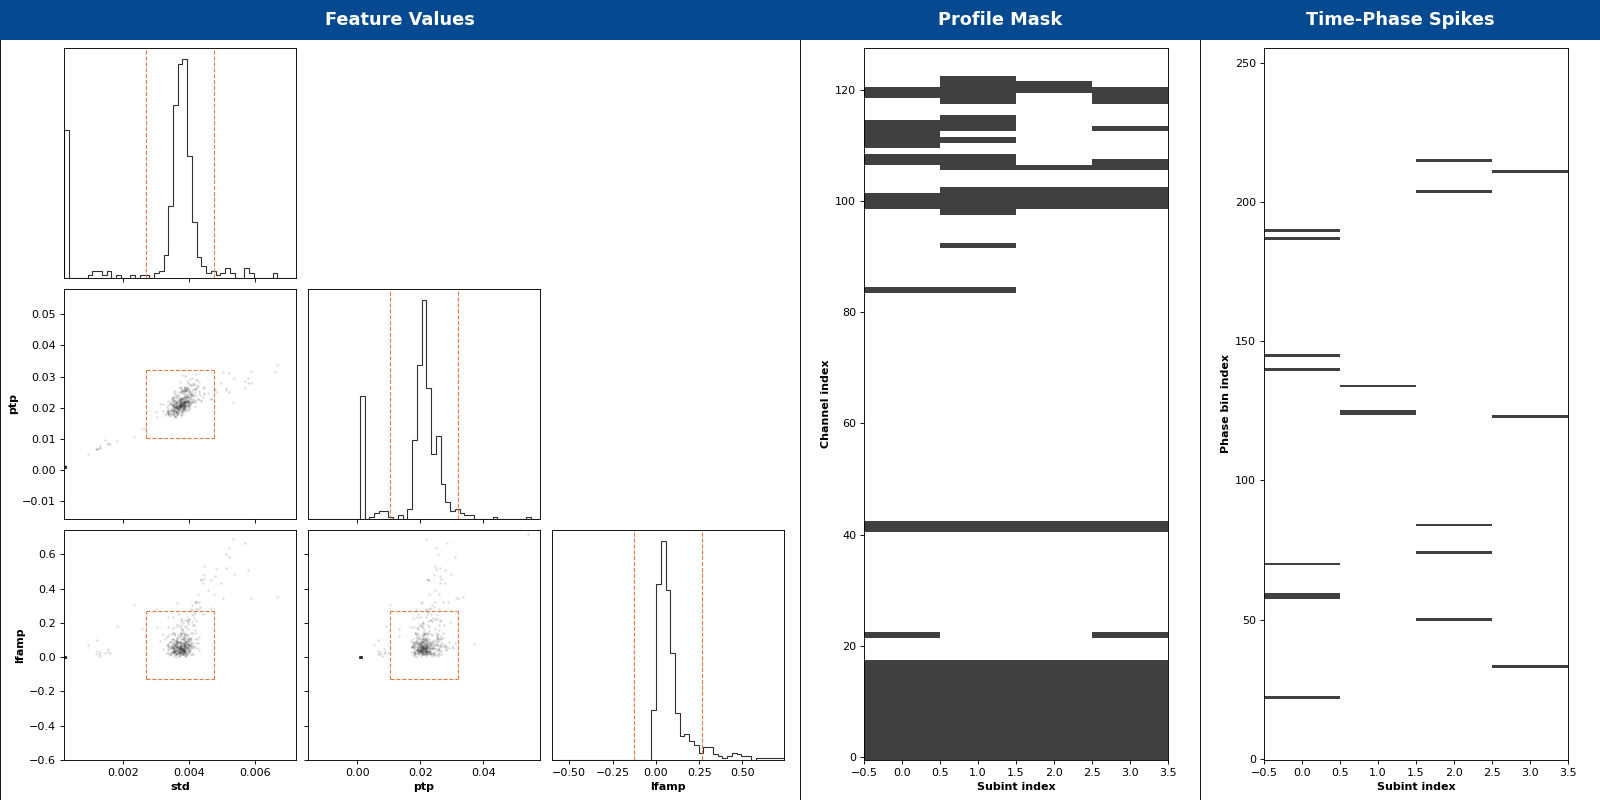
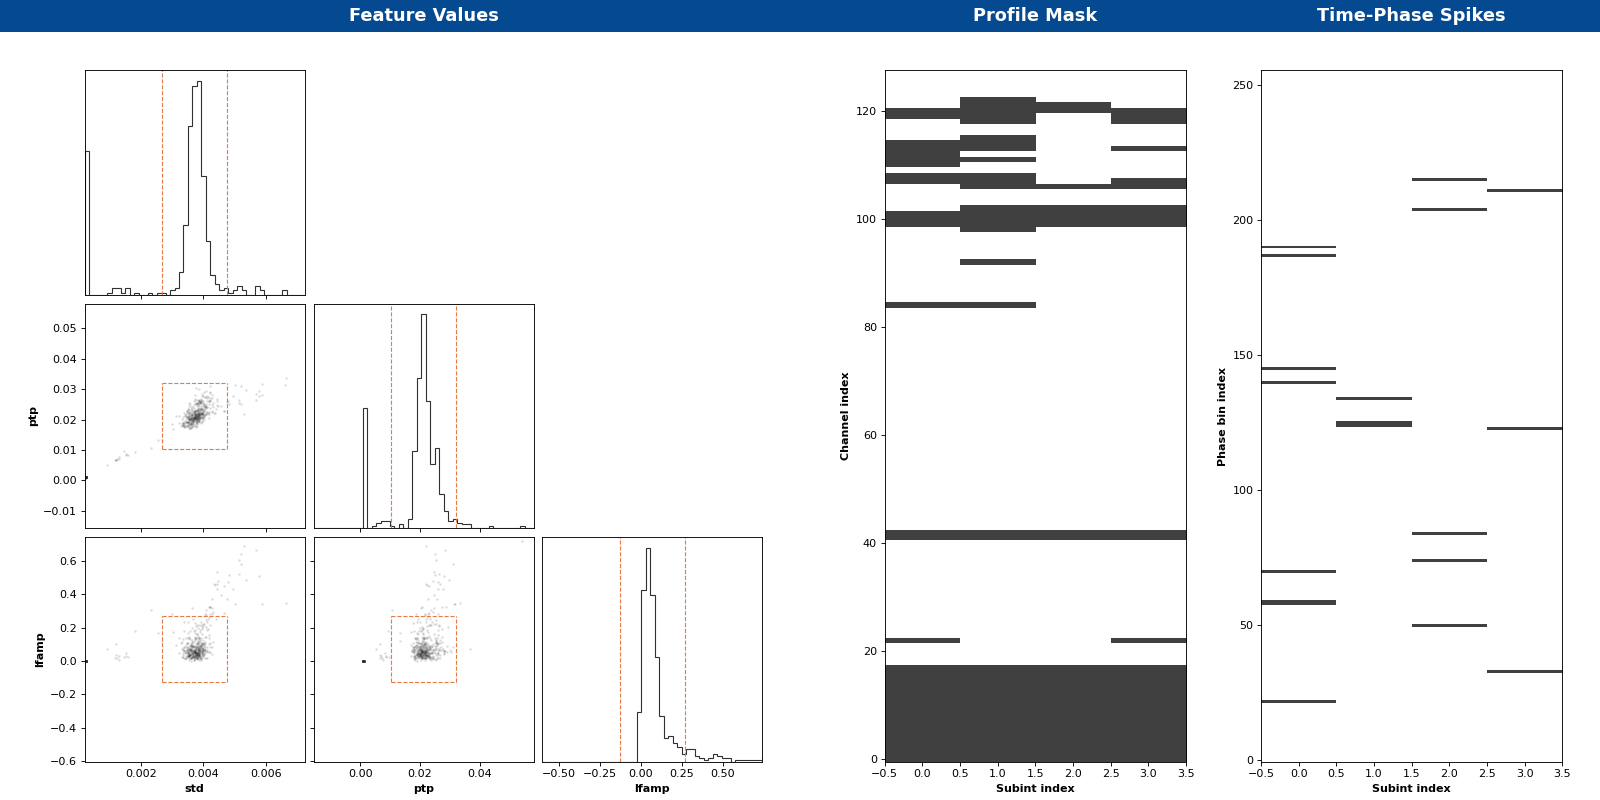
Improved report plots

diff --git a/clfd/report_plotting.py b/clfd/report_plotting.py
@@ -1,79 +1,146 @@
 import itertools
+from collections.abc import Sequence
+from dataclasses import dataclass
+from typing import Iterable
 
 import matplotlib.pyplot as plt
 import numpy as np
-from matplotlib.gridspec import GridSpec
+from matplotlib.gridspec import GridSpec, SubplotSpec
 from matplotlib.patches import Rectangle
+from matplotlib.pyplot import Axes, Figure
 from numpy.typing import NDArray
 
 from clfd import Report
 from clfd.profile_masking import Stats
 
-BANNER_BACKGROUND_COLOR = "#054a91"
-BANNER_TEXT_COLOR = "w"
-REJECTION_BOUNDARY_COLOR = "#e57a44"
 
+@dataclass
+class PlotRegion:
+    left: float
+    right: float
+    bottom: float
+    top: float
 
-def plot_report(report: Report) -> plt.Figure:
-    """
-    Plot a report, return a figure.
-    """
-    fig = plt.figure(figsize=(20, 10), dpi=80)
+    @property
+    def width(self) -> float:
+        return self.right - self.left
 
-    plot_frame("Feature Values", left=0.0, right=0.5)
-    corner_gridspec_kwargs = {
-        "left": 0.04,
-        "right": 0.49,
-        "top": 0.94,
-        "bottom": 0.05,
-        "hspace": 0.05,
-        "wspace": 0.05,
-    }
-    pm = report.profile_masking_result
-    corner_plot(
-        pm.feature_values, pm.feature_stats, pm.q, **corner_gridspec_kwargs
-    )
+    @property
+    def height(self) -> float:
+        return self.top - self.bottom
 
-    plot_frame("Profile Mask", left=0.5, right=0.75)
-    mask_gridspec_kwargs = {
-        "left": 0.54,
-        "right": 0.73,
-        "top": 0.94,
-        "bottom": 0.05,
-    }
-    mask_plot(pm.mask, "subint", "channel", **mask_gridspec_kwargs)
+    @property
+    def xmid(self) -> float:
+        return (self.left + self.right) / 2
 
-    if report.spike_finding_result:
-        plot_frame("Time-Phase Spikes", left=0.75, right=1.0)
-        mask_gridspec_kwargs = {
-            "left": 0.79,
-            "right": 0.98,
-            "top": 0.94,
-            "bottom": 0.05,
-        }
-        mask_plot(
-            report.spike_finding_result.mask,
-            "subint",
-            "phase bin",
-            **mask_gridspec_kwargs,
+    @property
+    def ymid(self) -> float:
+        return (self.top + self.bottom) / 2
+
+    def scaled(self, xscale: float, yscale: float) -> "PlotRegion":
+        return PlotRegion(
+            left=self.xmid - xscale * self.width / 2,
+            right=self.xmid + xscale * self.width / 2,
+            bottom=self.ymid - yscale * self.height / 2,
+            top=self.ymid + yscale * self.height / 2,
         )
-    return fig
 
 
-def plot_frame(title: str, *, left: float, right: float):
-    gs_frame = GridSpec(1, 1, top=1, bottom=0, left=left, right=right)
-    axes = plt.subplot(gs_frame[0, 0])
+class Frame:
+    """
+    Container for a plot, delimited by a rectangle and with a title box at the
+    top.
+    """
+
+    def __init__(
+        self,
+        title: str,
+        *,
+        left: float,
+        right: float,
+        top: float,
+        bottom: float,
+    ):
+        self.title = title
+        self.gridspec = GridSpec(
+            2,
+            1,
+            left=left,
+            right=right,
+            top=top,
+            bottom=bottom,
+            height_ratios=(1, 24),
+            hspace=0,
+        )
+        title_box_axes = draw_axes_with_outer_frame_only(self.gridspec[0, 0])
+        draw_axes_with_outer_frame_only(self.gridspec[1, 0])
+        draw_title_box_filling_axes(title_box_axes, title)
+
+    def usable_plot_region(self) -> PlotRegion:
+        g = self.gridspec
+        hup, hdown = g.get_height_ratios()
+        usable_height_fraction = hdown / (hdown + hup)
+        return PlotRegion(
+            left=g.left,
+            right=g.right,
+            bottom=g.bottom,
+            top=g.bottom + usable_height_fraction * (g.top - g.bottom),
+        )
+
+
+class FrameRow(Sequence[Frame]):
+    """
+    Row of frames.
+    """
+
+    def __init__(
+        self,
+        titles: Iterable[str],
+        width_ratios: Iterable[float],
+    ):
+        left = 0
+        widths = [r / sum(width_ratios) for r in width_ratios]
+
+        self._frames: list[Frame] = []
+        for title, width in zip(titles, widths):
+            frame = Frame(
+                title, left=left, right=left + width, bottom=0.0, top=1.0
+            )
+            self._frames.append(frame)
+            left += width
+
+    def __getitem__(self, index: int) -> Frame:
+        return self._frames[index]
+
+    def __len__(self):
+        return len(self._frames)
+
+
+def draw_axes_with_outer_frame_only(spec: SubplotSpec) -> plt.Axes:
+    axes = plt.subplot(spec)
     axes.set_facecolor("w")
-    axes.tick_params(axis="both", which="both", left=False, labelleft=False)
+    axes.tick_params(
+        axis="both",
+        which="both",
+        bottom=False,
+        top=False,
+        left=False,
+        right=False,
+        labelleft=False,
+        labelright=False,
+        labeltop=False,
+        labelbottom=False,
+    )
+    axes.set_frame_on(False)
+    return axes
 
-    gs_title = GridSpec(1, 1, top=1, bottom=0.95, left=left, right=right)
-    axes = plt.subplot(gs_title[0, 0])
-    axes.axis("off")
-    axes.set_xlim(0, 1)
-    axes.set_ylim(0, 1)
 
+def draw_title_box_filling_axes(axes: Axes, title: str):
     rectangle = Rectangle(
-        (0, 0), width=1, height=1, facecolor=BANNER_BACKGROUND_COLOR
+        (0, 0),
+        width=1,
+        height=1,
+        facecolor="#054a91",
     )
     axes.add_patch(rectangle)
     axes.text(
@@ -82,10 +149,57 @@ def plot_frame(title: str, *, left: float, right: float):
         title,
         fontsize=16,
         fontweight="bold",
-        color=BANNER_TEXT_COLOR,
+        color="w",
         horizontalalignment="center",
         verticalalignment="center",
     )
+
+
+def plot_report(report: Report) -> Figure:
+    fig = plt.figure(figsize=(20, 10), dpi=80)
+    feature_values_frame, profile_mask_frame, spike_mask_frame = FrameRow(
+        ["Feature Values", "Profile Mask", "Time-Phase Spikes"], [9, 4, 4]
+    )
+
+    pm = report.profile_masking_result
+    region = feature_values_frame.usable_plot_region().scaled(
+        xscale=0.8, yscale=0.9
+    )
+    kwargs = {
+        "left": region.left,
+        "right": region.right,
+        "bottom": region.bottom,
+        "top": region.top,
+        "wspace": 0.04,
+        "hspace": 0.04,
+    }
+    corner_plot(pm.feature_values, pm.feature_stats, pm.q, **kwargs)
+
+    region = profile_mask_frame.usable_plot_region().scaled(
+        xscale=0.8, yscale=0.9
+    )
+    kwargs = {
+        "left": region.left,
+        "right": region.right,
+        "bottom": region.bottom,
+        "top": region.top,
+    }
+    mask_plot(pm.mask, "subint", "channel", **kwargs)
+
+    if report.spike_finding_result is not None:
+        region = spike_mask_frame.usable_plot_region().scaled(
+            xscale=0.8, yscale=0.9
+        )
+        kwargs = {
+            "left": region.left,
+            "right": region.right,
+            "bottom": region.bottom,
+            "top": region.top,
+        }
+        mask_plot(
+            report.spike_finding_result.mask, "subint", "phase bin", **kwargs
+        )
+    return fig
 
 
 def corner_plot(
@@ -100,7 +214,7 @@ def corner_plot(
     rejection_boundaries_kwargs = {
         "linestyles": "--",
         "lw": 1,
-        "color": REJECTION_BOUNDARY_COLOR,
+        "color": "#e57a44",
     }
 
     num_features = len(feature_values)

diff --git a/CHANGELOG.md b/CHANGELOG.md
@@ -2,6 +2,15 @@
 All notable changes will be documented in this file. The format is based on [Keep a Changelog](https://keepachangelog.com/en/1.0.0/).
 
 
+## 1.0.1 - 2025-01-01
+
+Slightly improved report plots.
+
+### Changed
+
+- Improved report plot layout; removed frames around each subplot, they had questionable added value and did not always render well at the edges of the image.
+
+
 ## 1.0.0 - 2024-12-30
 
 First stable release after a complete rewrite. `clfd` is now extensively tested in a CI pipeline.
